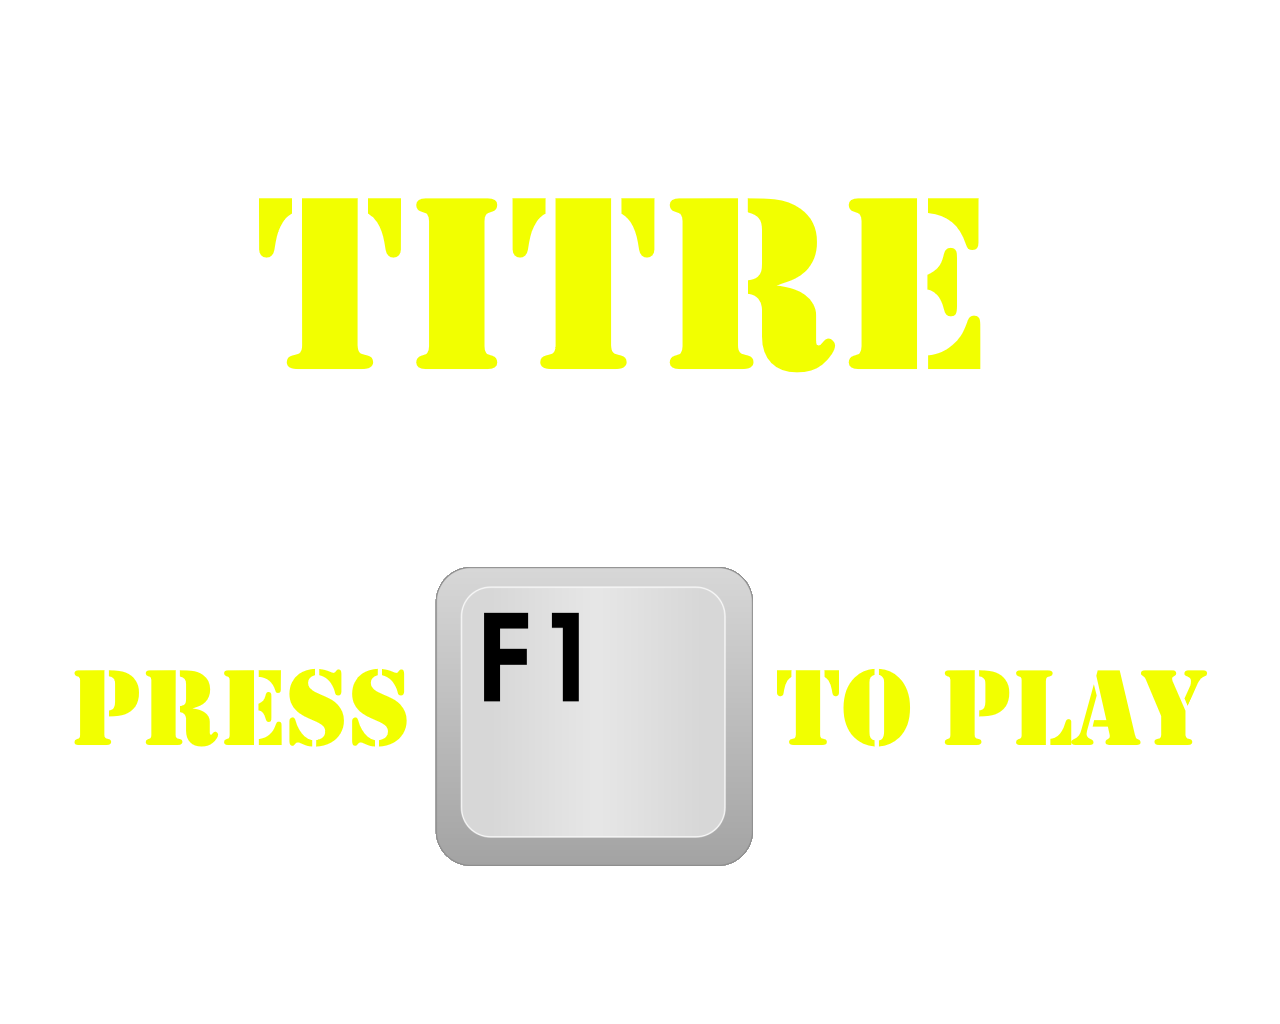
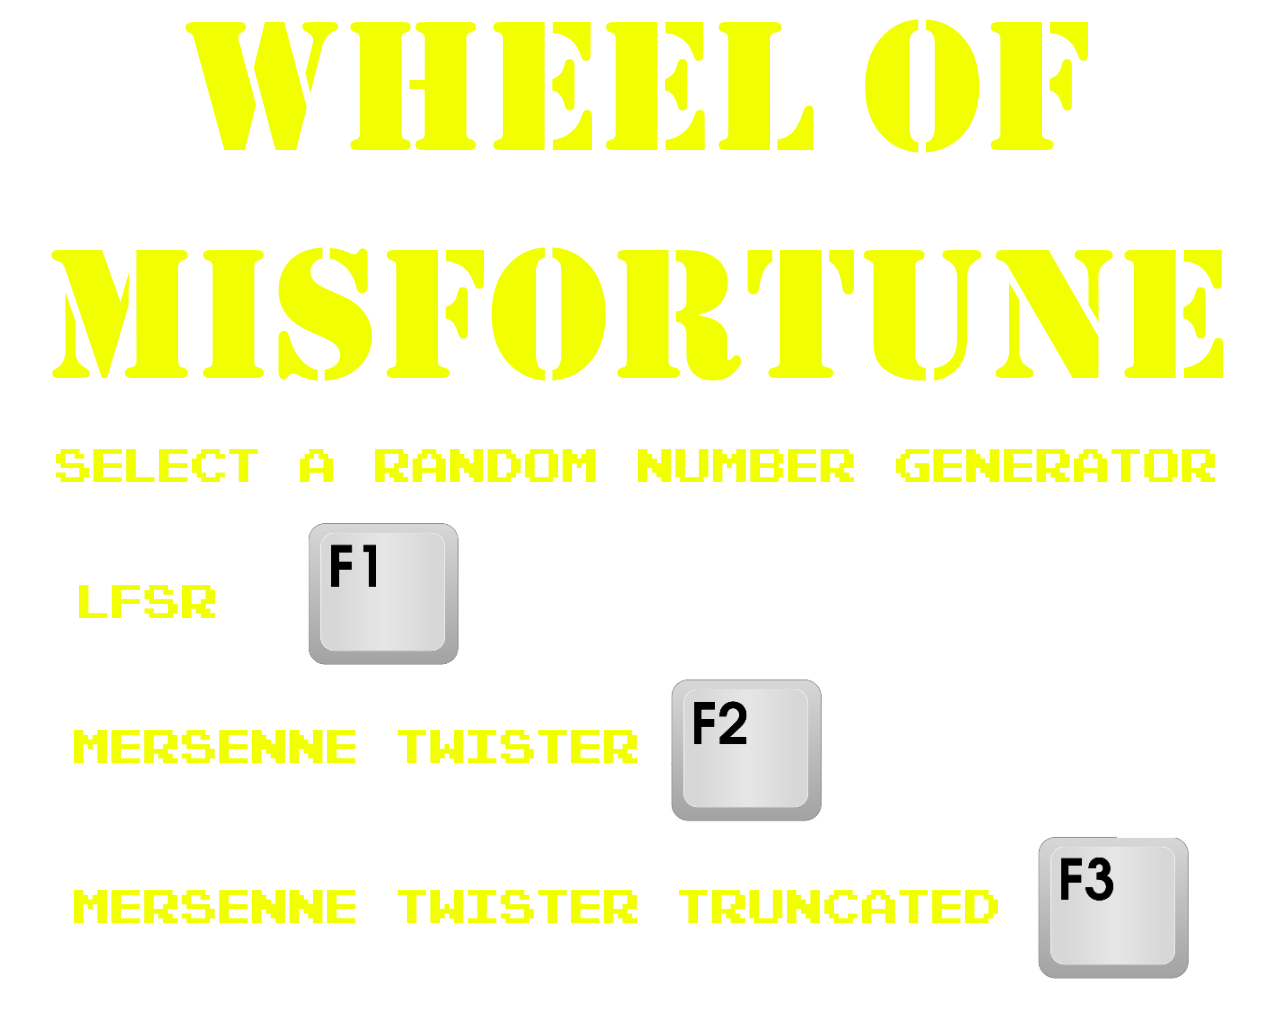
graphical update

diff --git a/view/interface.py b/view/interface.py
@@ -28,7 +28,7 @@ class WindowManager:
         self.launch_button = button.Button(WINDOW_HEIGHT + 5, 500, 246, 80, pygame.image.load(IMAGE_LAUNCHBUTTON).convert_alpha(),
         pygame.image.load(IMAGE_LAUNCHBUTTON).convert_alpha(), pygame.image.load(IMAGE_LAUNCHBUTTON).convert_alpha())
 
-        self.ff_button = button.Button(WINDOW_HEIGHT + 5, 750, 246, 80, pygame.image.load(IMAGE_FFBUTTON).convert_alpha(),
+        self.ff_button = button.Button(WINDOW_HEIGHT + 5, 750, 246, 120, pygame.image.load(IMAGE_FFBUTTON).convert_alpha(),
         pygame.image.load(IMAGE_LAUNCHBUTTON).convert_alpha(), pygame.image.load(IMAGE_FFBUTTON).convert_alpha())
 
         for i in range(16):

diff --git a/params.py b/params.py
@@ -1,5 +1,5 @@
 # Graphical parameters
-GAME_TITLE = "Crypto Casino"
+GAME_TITLE = "Wheel Of Misfortune"
 WINDOW_HEIGHT = 1024
 WINDOW_WIDTH = 1280
 WHEEL_DIAMETER = 950
